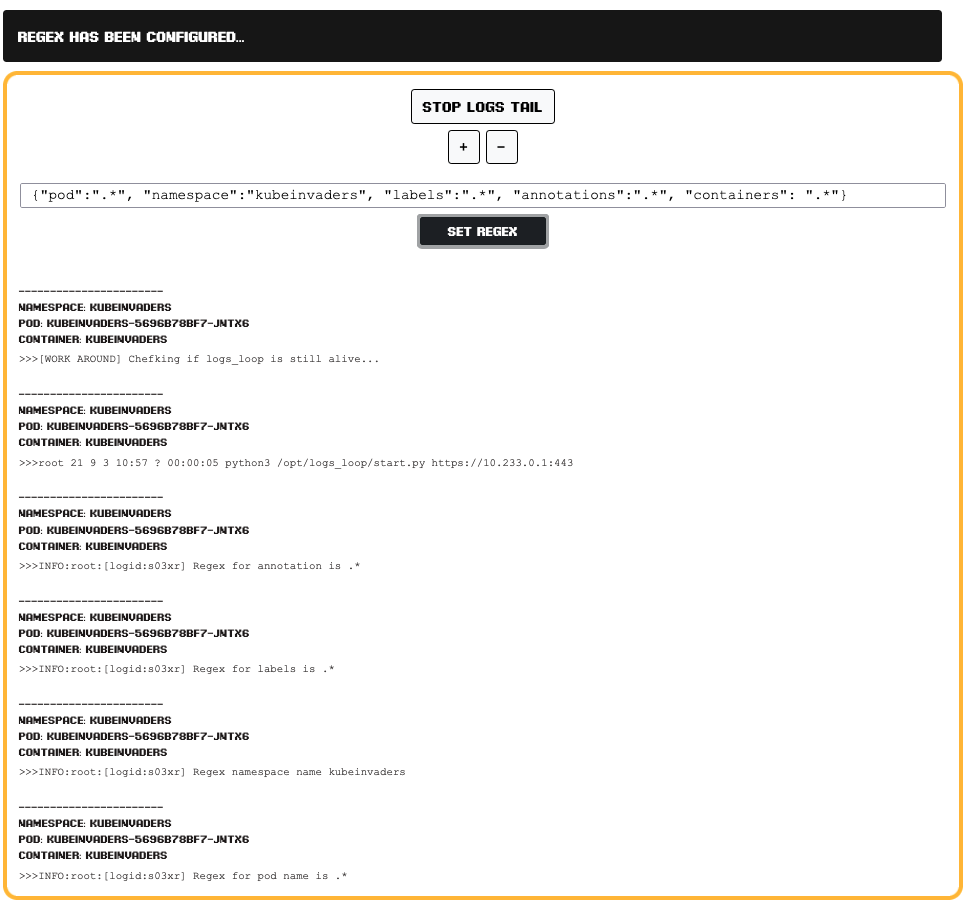
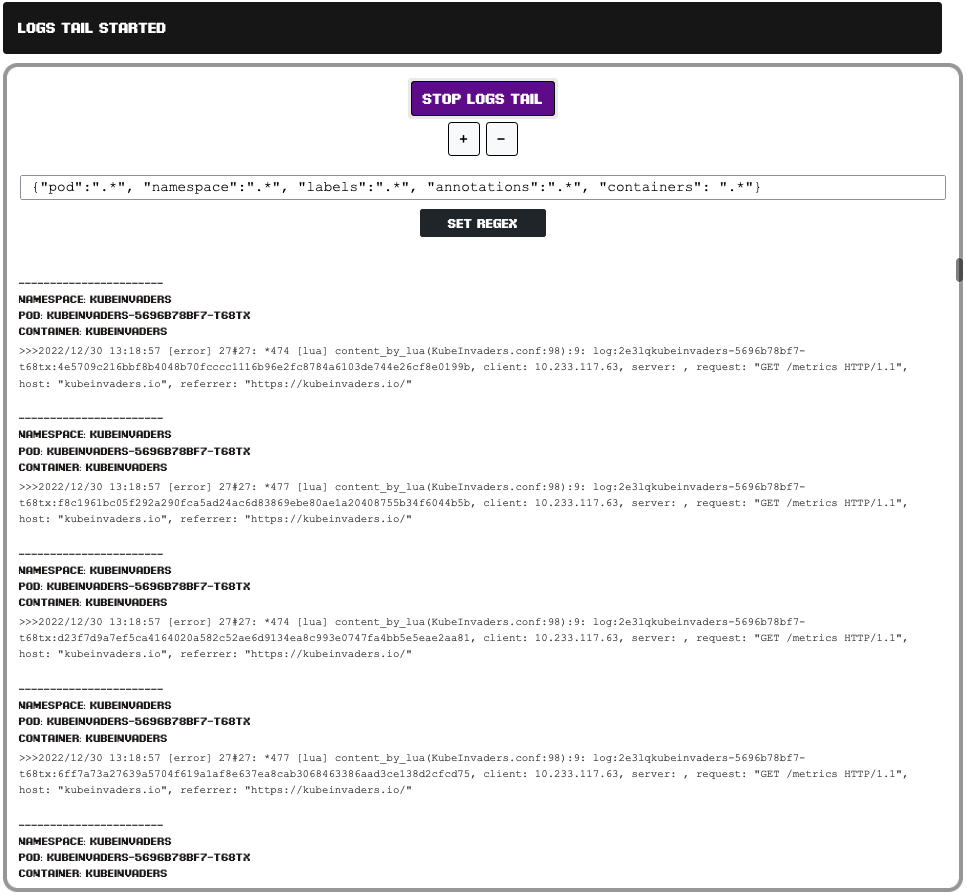
fix

diff --git a/html5/index.html b/html5/index.html
@@ -10,7 +10,7 @@
 
       .custom-btn-group {
         margin-top: 2%;
-        border: 5px solid #feb515;
+        border: 5px solid #969696;
         border-radius: 5px;
         -moz-border-radius: 15px;
         -webkit-border-radius: 15px;
@@ -20,7 +20,7 @@
 
       .logtail-group {
         margin-top: 0%;
-        border: 5px solid #feb515;
+        border: 5px solid #969696;
         border-radius: 5px;
         -moz-border-radius: 15px;
         -webkit-border-radius: 15px;
@@ -29,7 +29,7 @@
       }
 
       .chaos-prog-area {
-        border: 7px solid #feb515;
+        border: 5px solid #969696;
         border-radius: 5px;
         -moz-border-radius: 15px;
         -webkit-border-radius: 15px;
@@ -159,7 +159,7 @@
             <form>
               <div class="form-group">
                 
-                <label for="exampleFormControlTextarea1" style="margin-bottom: 1%;">Set load test code</label><br>
+                <label for="exampleFormControlTextarea1" style="margin-bottom: 1%;">Load Test Code</label><br>
 
                 <label for="presetName">Name</label>
                 <input type="text" id="presetName" value="foobar" readonly="true" style="margin-bottom: 1%;"><br>
@@ -167,14 +167,15 @@
                 <label for="presetLangText">Programing Language</label>
                 <input type="text" id="presetLang" value="Python3" readonly="true" style="margin-bottom: 1%;">
 
-                <textarea class="form-control" id="currentLoadTest" rows="20" style="color: #161616; font-family: 'Courier New', Courier, monospace;"></textarea>
+                <textarea class="form-control" id="currentLoadTest" rows="20" style="color: #161616; font-weight: bold; font-family: 'Courier New', Courier, monospace;"></textarea>
+
               </div>
               <div class="form-group">
                 <p id="alert_placeholder2" style="color: #161616; font-family: 'Courier New', Courier, monospace; margin-top: 3%;"></p>
               </div>
               <div class="modal-footer">
-                <button type="button" class="btn btn-light" onclick="savePreset()">Save and apply</button>
-                <button type="button" class="btn btn-light" onclick="savePreset()">Save</button>
+                <button type="button" class="btn btn-light" onclick="savePreset('apply')">Save and apply</button>
+                <button type="button" class="btn btn-light" onclick="savePreset('save')">Save</button>
                 <button type="button" class="btn btn-dark" data-dismiss="modal" onclick="closeSetLoadTestModal()">Close</button>
               </div>
             </form>
@@ -460,8 +461,9 @@ experiments:
         startProgrammingMode();
         loadPresetsCodeParsed = JSON.parse(loadPresetsCodeJson); 
         decodedStringAtoB = atob(loadPresetsCodeParsed[tool]);
-        $("#currentLoadTest").text(decodedStringAtoB);
-        loadSavedPreset(tool, lang)
+        loadSavedPreset(tool, lang, decodedStringAtoB);
+        latest_preset_name = tool;
+        latest_preset_lang = lang;
         $("#presetLang").val(lang);
         $("#presetName").val(tool);
         $('#setLoadTestModal').modal('show');

diff --git a/html5/kubeinvaders.js b/html5/kubeinvaders.js
@@ -80,6 +80,9 @@ var latestPodNameY = '';
 var namespacesJumpFlag = false;
 var namespacesJumpStaus = 'Disabled';
 
+var latest_preset_name = "";
+var latest_preset_lang = "";
+
 function isJsonString(str) {
     try {
         JSON.parse(str);
@@ -89,35 +92,38 @@ function isJsonString(str) {
     return true;
 }
 
-function loadSavedPreset(tool, lang) {
+function loadSavedPreset(tool, lang, defaultpreset) {
     var oReq = new XMLHttpRequest();
     oReq.onreadystatechange = function () {
         if (this.readyState === XMLHttpRequest.DONE && this.status === 200) {
-            if (this.responseText != "") {
-                $("#currentLoadTest").text(this.responseText);
-            } 
+            console.log("response of loadSavedPreset: " + this.responseText);
+            if (this.responseText != "nil") {
+                $("#currentLoadTest").val(this.responseText);
+            } else {
+                $("#currentLoadTest").val(defaultpreset);
+            }
         }
     };;
     oReq.open("GET", "https://" + clu_endpoint + "/chaos/loadpreset?name=" + tool + "&lang=" + lang);
     oReq.send();
 }
 
-function savePreset() {
+function savePreset(action) {
     var presetName = "";
-    presetBody = $('#currentLoadTest').text();
-    presetLang = $('#presetLang').val();
-    presetName = $('#presetName').val();
+    presetBody = $("#currentLoadTest").val();
+    presetLang = latest_preset_lang;
+    presetName = latest_preset_name;
 
+    console.log("Saving preset. name:" + presetName + ", lang:" + presetName + ", body: " + presetBody);
     var oReq = new XMLHttpRequest();
 
     oReq.open("POST", "https://" + clu_endpoint + "/chaos/loadpreset/save?name=" + presetName + "&lang=" + presetLang, true);
 
     oReq.onreadystatechange = function () {
-        if (this.readyState === XMLHttpRequest.DONE && this.status === 200) {
+        if (this.readyState === XMLHttpRequest.DONE && this.status === 200 && action == "apply") {
             // console.log(this.responseText);
             $('#alert_placeholder').replaceWith(this.responseText);
-            presetBody = $('#chaosProgramTextArea').text(`
-jobs:
+            presetBody = $('#chaosProgramTextArea').text(`jobs:
   ${presetName}:
     additional-labels:
       create-by: kubeinvaders
@@ -130,15 +136,17 @@ jobs:
 experiments:
 - name: ${presetName}
   job: ${presetName}
-  loop: 5
-            `);
+  loop: 5`);
         }
     };;
 
     oReq.setRequestHeader("Content-Type", "application/json");
     oReq.send(presetBody);
     closeSetLoadTestModal();
-    startProgrammingMode();
+
+    if (action == "apply"){
+        startProgrammingMode();
+    }
 }
 
 function drawChaosProgramFlow() {
